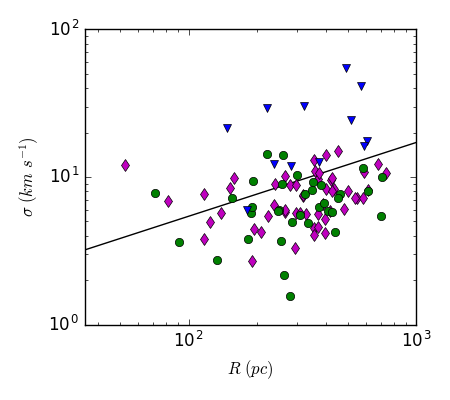
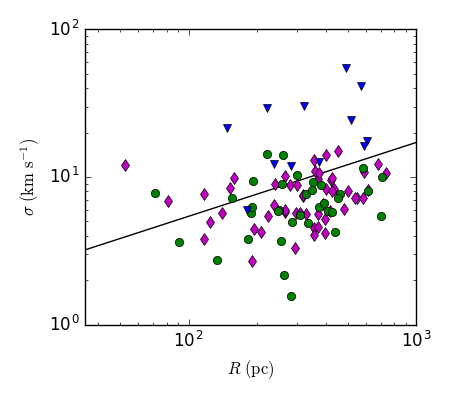
Figures Cleaned up

diff --git a/gmc_property_subplots.py b/gmc_property_subplots.py
@@ -60,7 +60,6 @@ plt.loglog(mytable['MASS_EXTRAP'][arm_in],mytable['VIRMASS_EXTRAP_DECONV'][arm_i
 plt.loglog(mytable['MASS_EXTRAP'][interarm_in],mytable['VIRMASS_EXTRAP_DECONV'][interarm_in],marker='o',c='g',linestyle='None')
 plt.loglog(mytable['MASS_EXTRAP'][outliers],mytable['VIRMASS_EXTRAP_DECONV'][outliers],marker='+',c='w',linestyle='None')
 plt.loglog(mytable['MASS_EXTRAP'][centre_in],mytable['VIRMASS_EXTRAP_DECONV'][centre_in],marker='v',c='b',linestyle='None')
-
 plt.xlabel(r'$M_{\mathrm{lum}}\ (M_{\odot})$') 
 plt.ylabel(r'$M_{\mathrm{vir}}\ (M_{\odot})$')
 plt.ylim(4E5, 3E9)
@@ -72,8 +71,8 @@ plt.savefig('MlumMvir_matplotlib.png')
 #Radius vs. line width(velocity dispersion) plot
 figure = plt.figure(figsize=(4.5,4)) #figure size in inches
 plt.plot(R,sigmav,linestyle = '-', c = 'k')
-plt.ylabel(r'$\sigma\ (km\ s^{-1})$') 
-plt.xlabel(r'$R\ (pc)$')
+plt.ylabel(r'$\sigma\ (\mathrm{km\ s^{-1}})$') 
+plt.xlabel(r'$R\ (\mathrm{pc})$')
 plt.loglog(mytable['RADRMS_EXTRAP_DECONV'][arm_in],mytable['VRMS_EXTRAP_DECONV'][arm_in],marker='d',c='m',linestyle='None')
 plt.loglog(mytable['RADRMS_EXTRAP_DECONV'][interarm_in],mytable['VRMS_EXTRAP_DECONV'][interarm_in],marker='o',c='g',linestyle='None')
 plt.loglog(mytable['RADRMS_EXTRAP_DECONV'][centre_in],mytable['VRMS_EXTRAP_DECONV'][centre_in],marker='v',c='b',linestyle='None')
@@ -90,7 +89,7 @@ plt.loglog(mytable['RADRMS_EXTRAP_DECONV'][arm_in],mytable['MASS_EXTRAP'][arm_in
 plt.loglog(mytable['RADRMS_EXTRAP_DECONV'][interarm_in],mytable['MASS_EXTRAP'][interarm_in],marker='o',c='g',linestyle='None')
 plt.loglog(mytable['RADRMS_EXTRAP_DECONV'][centre_in],mytable['MASS_EXTRAP'][centre_in],marker='v',c='b',linestyle='None')
 #plt.loglog(mytable['RADRMS_EXTRAP_DECONV'][outliers],mytable['MASS_EXTRAP'][outliers],marker='+',c='m',linestyle='None')
-plt.xlabel(r'$R\ (pc)$') 
+plt.xlabel(r'$R\ (\mathrm{pc})$') 
 plt.ylabel(r'$M_{\mathrm{lum}}\ (M_{\odot})$')
 plt.ylim(1E6, 1E9)
 plt.xlim(40,1E3)
@@ -99,8 +98,8 @@ plt.savefig('MlumRad_matplotlib.png')
 
 #Sigma_0 vs Mass Density
 figure = plt.figure(figsize=(4.5,4))
-plt.xlabel('$M/\pi R^2\ ((M_{\odot})/pc^2)$')
-plt.ylabel('$\sigma_0$')
+plt.xlabel('$\Sigma\ ((M_{\odot})/\mathrm{pc}^2)$')
+plt.ylabel('$\sigma_0\ ({\mathrm{km\ s^{-1}}})$')
 plt.loglog(M_den[arm_in],sigma0[arm_in],marker='d',c='m',linestyle='None')
 plt.loglog(M_den[interarm_in],sigma0[interarm_in],marker='o',c='g',linestyle='None')
 plt.loglog(M_den[centre_in],sigma0[centre_in],marker='v',c='b',linestyle='None')
@@ -112,8 +111,8 @@ plt.savefig('Sigma0_Mden_matplotlib.png')
 
 #Sigma_0 vs Galactocentric Radii
 figure = plt.figure(figsize=(4.5,4))
-plt.xlabel('$R_{gal} (pc)$')
-plt.ylabel('$\sigma_0$')
+plt.xlabel('$R_{\mathrm{gal}} (\mathrm{pc})$')
+plt.ylabel('$\sigma_0\ (\mathrm{km\ s^{-1}})$')
 plt.loglog(rgal.to(u.pc)[arm_in],sigma0[arm_in],marker='d',c='m',linestyle='None')
 plt.loglog(rgal.to(u.pc)[interarm_in],sigma0[interarm_in],marker='o',c='g',linestyle='None')
 plt.loglog(rgal.to(u.pc)[outliers],sigma0[outliers],marker='+',c='w',linestyle='None')
@@ -126,14 +125,14 @@ plt.savefig('sigma0_Rgal_matplotlib.png')
 
 #X,Y position
 figure = plt.figure(figsize=(4.5,4)) #figure size in inches
-plt.xlabel('X position (kpc)') 
-plt.ylabel('Y position (kpc)')
+plt.xlabel('X position $(\mathrm{kpc})$') 
+plt.ylabel('Y position $(\mathrm{kpc})$')
 plt.plot(x.to(u.kpc)[centre_in],y.to(u.kpc)[centre_in],marker='v',c='b',linestyle='None')
 plt.plot(x.to(u.kpc)[arm_in],y.to(u.kpc)[arm_in],marker='d',c='m',linestyle='None')
 plt.plot(x.to(u.kpc)[interarm_in],y.to(u.kpc)[interarm_in],marker='o',c='g',linestyle='None')
 plt.plot(x.to(u.kpc)[outliers],y.to(u.kpc)[outliers],marker='+',c='w',linestyle='None')
-plt.tight_layout() 	
-plt.axes().set_aspect('equal', 'datalim')
+plt.ylim(-10,12)
+plt.tight_layout() 
 plt.savefig('xypos_matplotlib.png')
 
 
@@ -242,7 +241,7 @@ plt.savefig('powerlaw_arm_interarm.png')
 
 
 #print out table of alpha, R and p values for each mass distribution
-tb = {'Clouds': ['All','Nuclear','Disk','Arm','Interarm'],'alpha': [myfit.alpha,myfit_nuc.alpha,myfit_disk.alpha,myfit_arm.alpha,myfit_interarm.alpha],'$\alpha$ (Truncated)': [myfit.truncated_power_law.alpha,myfit_nuc.truncated_power_law.alpha,myfit_disk.truncated_power_law.alpha,myfit_arm.truncated_power_law.alpha,myfit_interarm.truncated_power_law.alpha],'R':[R,R_nuc,R_disk,R_arm,R_interarm], 'p':[p,p_nuc,p_disk,p_arm,p_interarm], 'p':[p,p_nuc,p_disk,p_arm,p_interarm], 'p':[p,p_nuc,p_disk,p_arm,p_interarm], 'Cutoff Mass':[1/myfit.truncated_power_law.parameter2,1/myfit_nuc.truncated_power_law.parameter2,1/myfit_disk.truncated_power_law.parameter2,1/myfit_arm.truncated_power_law.parameter2,1/myfit_interarm.truncated_power_law.parameter2]}
+tb = {'Clouds': ['All','Nuclear','Disk','Arm','Interarm'],'alpha': [myfit.alpha,myfit_nuc.alpha,myfit_disk.alpha,myfit_arm.alpha,myfit_interarm.alpha],'alpha (Truncated)': [myfit.truncated_power_law.alpha,myfit_nuc.truncated_power_law.alpha,myfit_disk.truncated_power_law.alpha,myfit_arm.truncated_power_law.alpha,myfit_interarm.truncated_power_law.alpha],'R':[R,R_nuc,R_disk,R_arm,R_interarm], 'p':[p,p_nuc,p_disk,p_arm,p_interarm], 'p':[p,p_nuc,p_disk,p_arm,p_interarm], 'p':[p,p_nuc,p_disk,p_arm,p_interarm], 'Cutoff Mass':[1/myfit.truncated_power_law.parameter2,1/myfit_nuc.truncated_power_law.parameter2,1/myfit_disk.truncated_power_law.parameter2,1/myfit_arm.truncated_power_law.parameter2,1/myfit_interarm.truncated_power_law.parameter2]}
 t = Table(tb,names =('Clouds','alpha','alpha (Truncated)','R','p','Cutoff Mass'))
 print t
 
